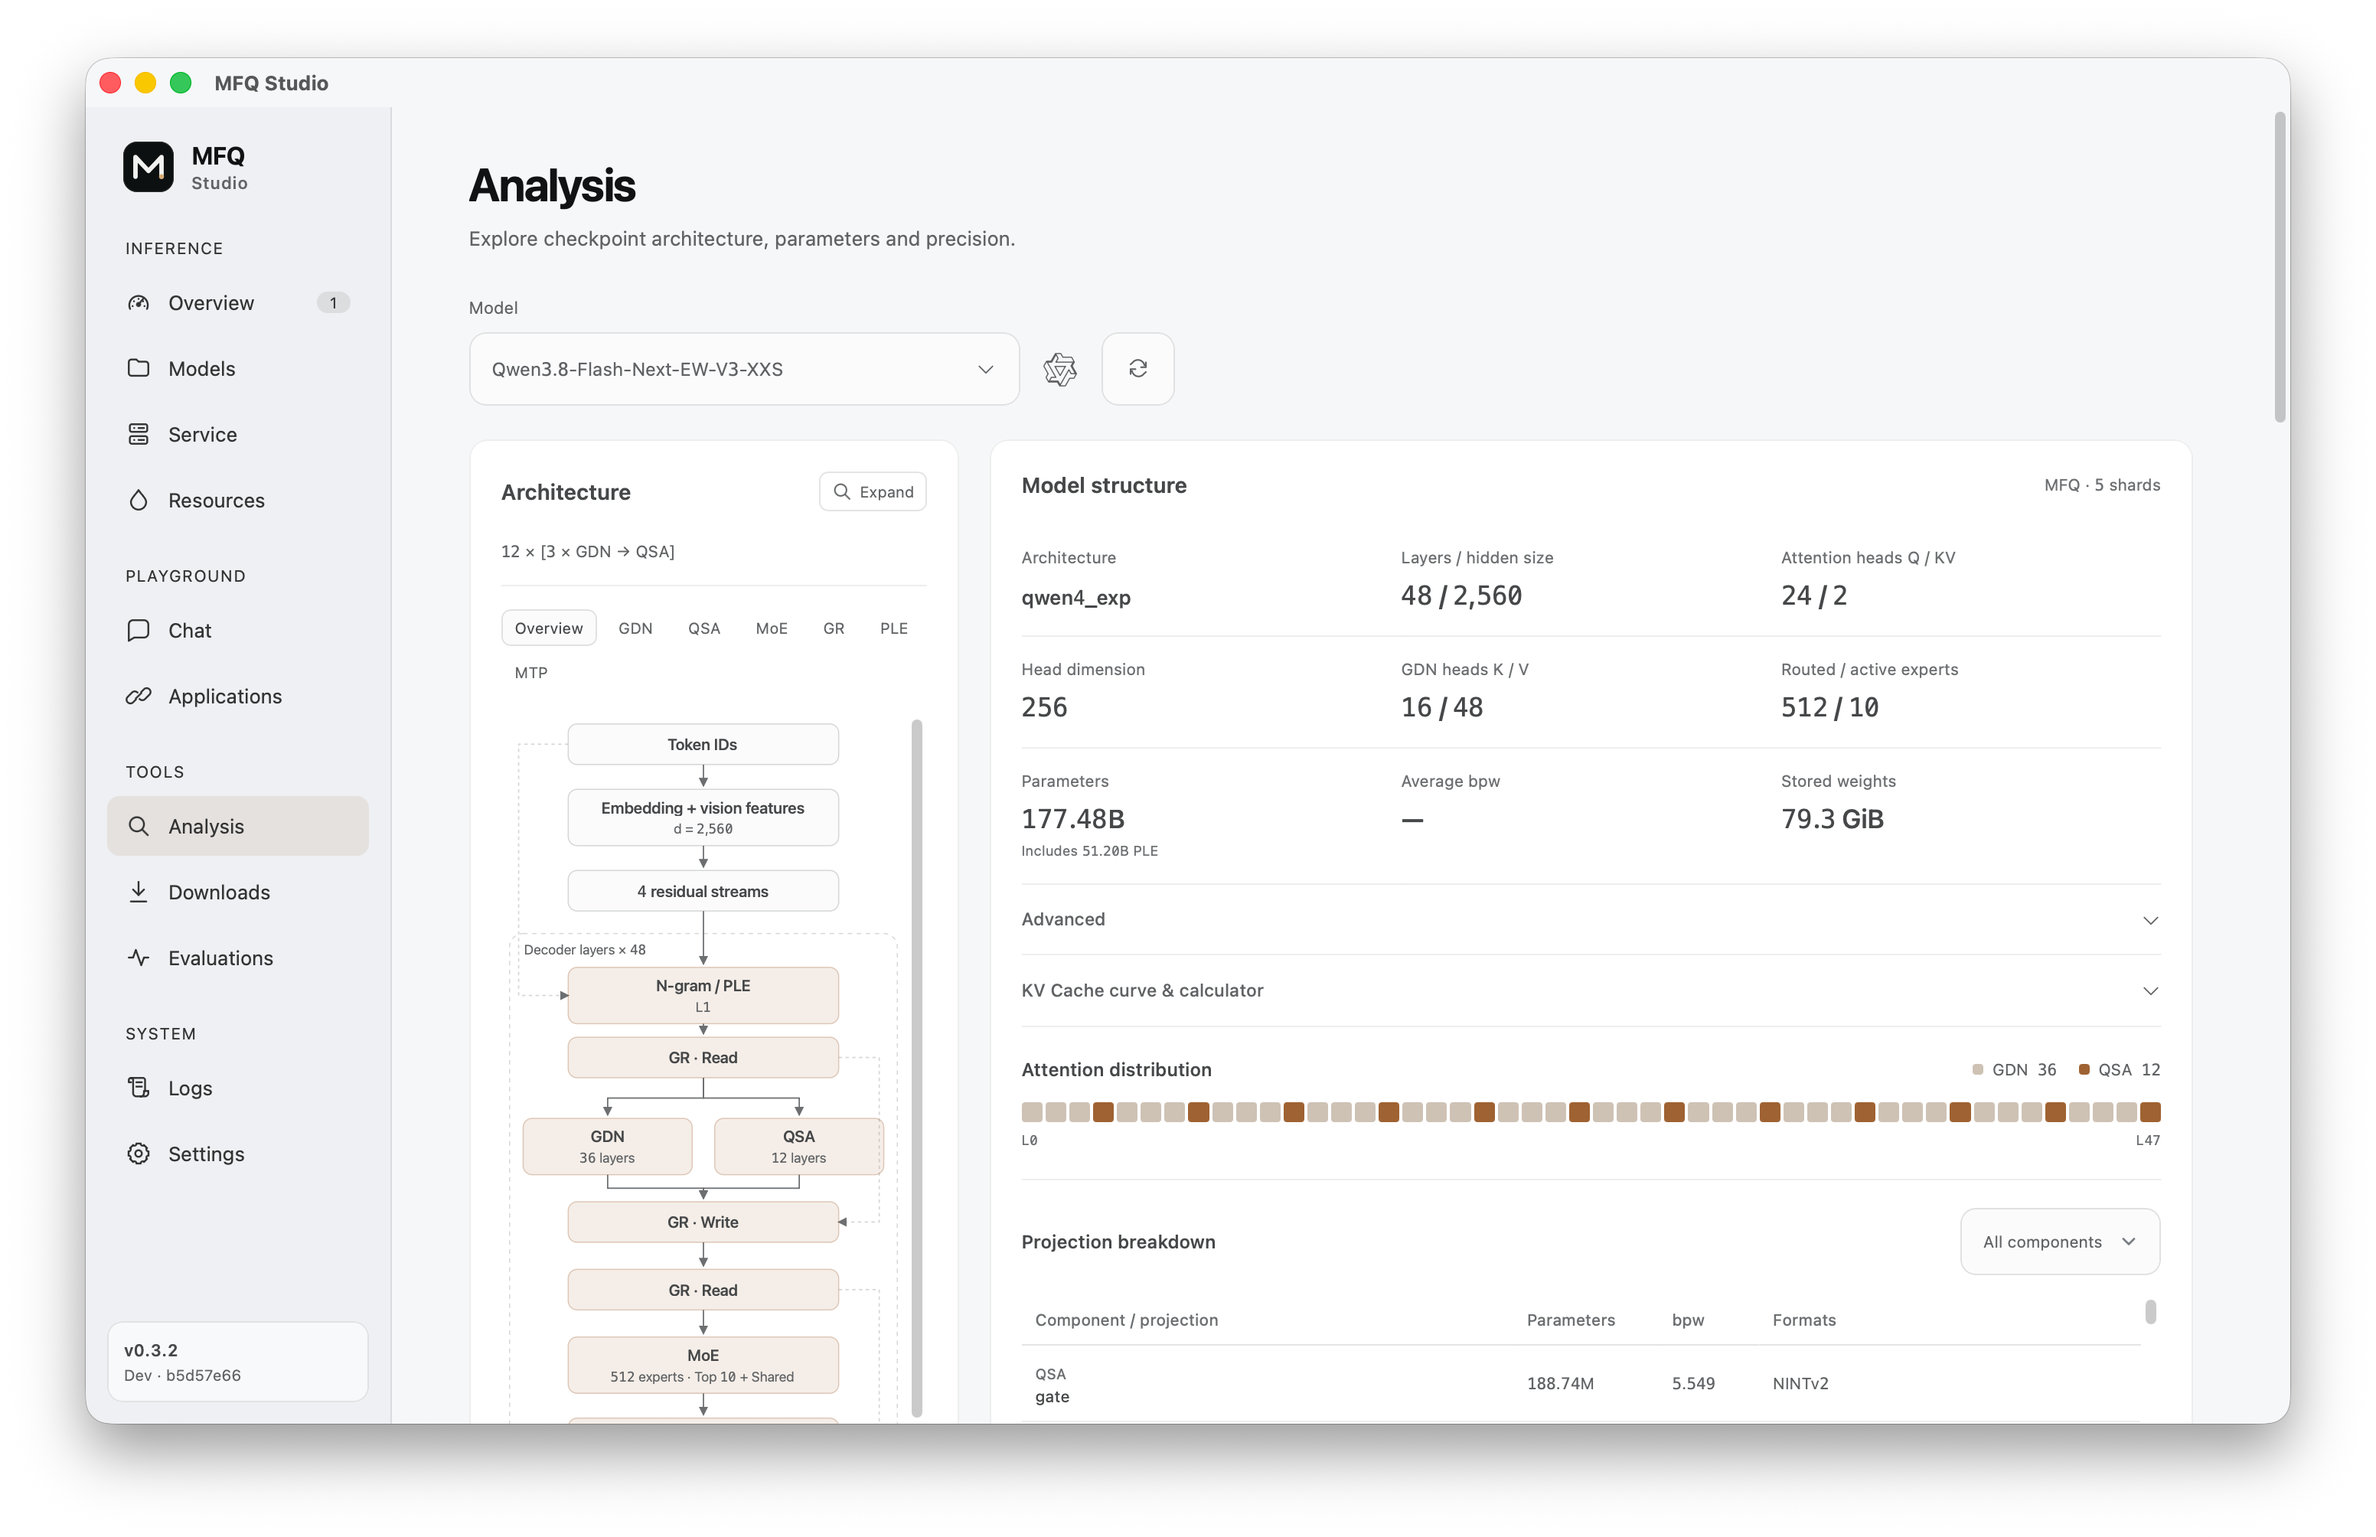
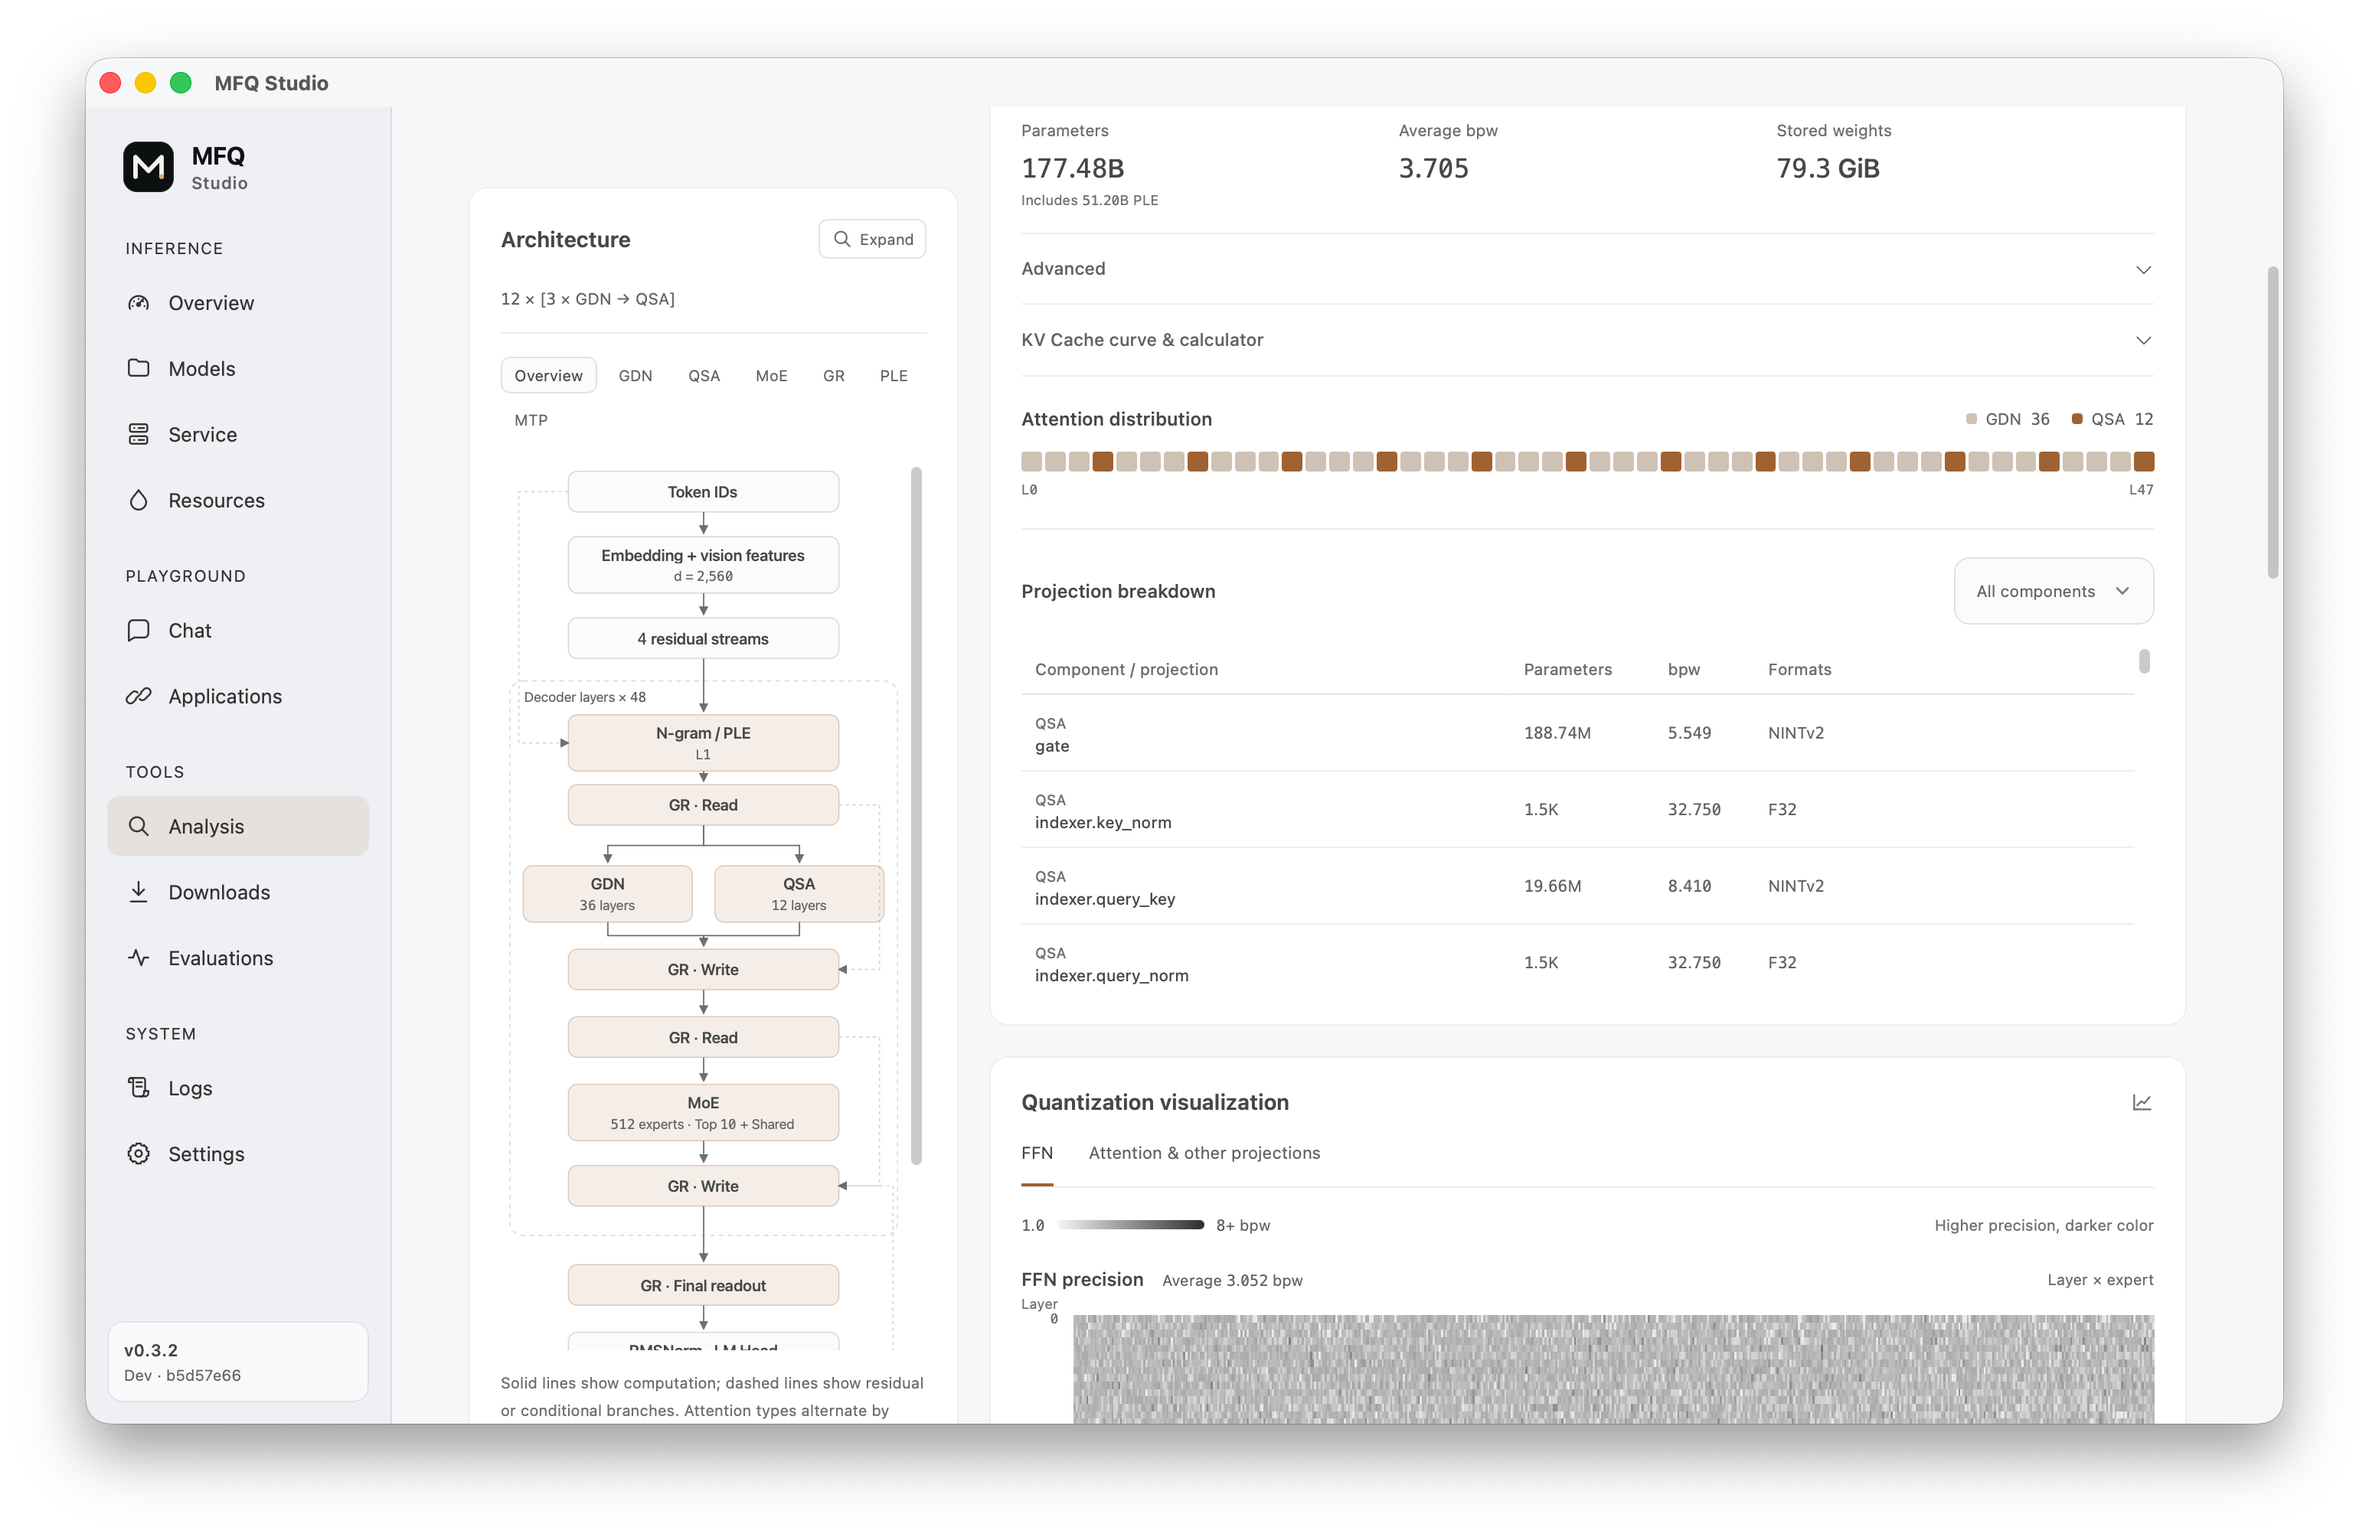
fix(analysis): scope model bpw and refresh Studio screenshots

diff --git a/tests/test_checkpoint_analysis.py b/tests/test_checkpoint_analysis.py
@@ -2,6 +2,8 @@ from __future__ import annotations
 
 import asyncio
 import math
+import struct
+from dataclasses import replace
 from pathlib import Path
 
 import httpx
@@ -114,6 +116,99 @@ def test_fused_gate_up_does_not_assume_identical_row_precision(tmp_path: Path) -
     assert result.advanced.hc_lowrank is None
     assert result.advanced.active_blocks is None
     assert result.advanced.expert_hidden_size == 2
+
+
+@pytest.mark.parametrize("source_names", [False, True])
+@pytest.mark.parametrize("dtype", [np.float16, np.float32])
+def test_full_model_bpw_excludes_predictor_and_vision_only(tmp_path: Path, source_names: bool, dtype) -> None:
+    import json
+    path = tmp_path / "model.mfq"
+    predictor = "mtp.fc_hidden.weight" if source_names else "predictor.fusion.hidden.weight"
+    vision = "model.visual.patch_embed.proj.weight" if source_names else "vision.patch_embedding.weight"
+    save(path, FileHeader(model_arch="test"), {
+        MODEL_CONFIG_ASSET: json.dumps({"model_type": "qwen4_exp", "text_config": {
+            "model_type": "qwen4_exp_text", "num_hidden_layers": 1, "mtp_num_hidden_layers": 1}}).encode(),
+        "model.block.0.attention.query.weight": nint([4, 4], [4, 4]),
+        "model.embedding.weight": np.ones((8, 16), dtype=np.float16),
+        "model.output.weight": np.ones((8, 16), dtype=np.float16),
+        "model.block.0.position_embedding.ngram.shard.0.weight": np.ones((8, 16), dtype=np.float16),
+        predictor: np.ones((32, 16), dtype=dtype),
+        vision: np.ones((32, 16), dtype=dtype),
+    })
+    result = analyze_checkpoint(ModelCatalog._inspect(tmp_path, path))
+    main = [item for item in result.tensors if item.category not in {"predictor", "vision"}]
+    assert {item.category for item in main} == {"attention", "embedding", "lm_head", "ple"}
+    assert len(main) == 4
+    assert result.average_bpw == pytest.approx(8 * sum(item.stored_bytes for item in main) / sum(item.parameters for item in main))
+    assert result.average_bpw != pytest.approx(8 * result.stored_bytes / result.parameters)
+    assert result.parameters == sum(item.parameters for item in result.tensors)
+    assert result.stored_bytes == sum(item.stored_bytes for item in result.tensors)
+    assert {item.category for item in result.projections} >= {"predictor", "vision"}
+    assert all(item.average_bpw is not None for item in result.projections)
+    assert not result.warnings
+
+
+@pytest.mark.parametrize("name,excluded", [
+    ("predictor.block.0.mlp.experts.down.weight", True),
+    ("vision.block.0.attention.query.weight", True),
+    ("model.block.0.attention.key.weight", False),
+])
+def test_bpw_completeness_check_uses_only_main_weights(tmp_path: Path, name: str, excluded: bool) -> None:
+    path = tmp_path / "model.mfq"
+    value = replace(nint([4] * 4, [4] * 4), axis=2)
+    save(path, FileHeader(model_arch="test"), {
+        "model.block.0.attention.query.weight": np.ones((4, 16), dtype=np.float16),
+        name: value,
+    })
+    result = analyze_checkpoint(ModelCatalog._inspect(tmp_path, path))
+    main = next(item for item in result.tensors if item.name == "model.block.0.attention.query.weight")
+    if excluded:
+        assert result.average_bpw == pytest.approx(8 * main.stored_bytes / main.parameters)
+    else:
+        assert result.average_bpw is None
+    assert any(name in warning for warning in result.warnings)
+    assert next(item for item in result.tensors if item.name == name).bpw is None
+
+
+def test_auxiliary_only_checkpoint_has_no_full_model_bpw(tmp_path: Path) -> None:
+    path = tmp_path / "auxiliary.mfq"
+    save(path, FileHeader(model_arch="test"), {
+        "predictor.fusion.weight": np.ones((4, 16), dtype=np.float16),
+        "vision.patch_embedding.weight": np.ones((4, 16), dtype=np.float16),
+    })
+    result = analyze_checkpoint(ModelCatalog._inspect(tmp_path, path))
+    assert result.average_bpw is None
+    assert result.parameters > 0
+    assert all(item.average_bpw is not None for item in result.projections)
+
+
+def test_hf_full_model_bpw_excludes_mapped_predictor_and_vision(tmp_path: Path) -> None:
+    import json
+
+    config = {"model_type": "qwen4_exp", "text_config": {
+        "model_type": "qwen4_exp_text", "num_hidden_layers": 1, "mtp_num_hidden_layers": 1}}
+    (tmp_path / "config.json").write_text(json.dumps(config), encoding="utf-8")
+    tensors = {
+        "model.language_model.embed_tokens.weight": np.ones((4, 16), dtype=np.float16),
+        "mtp.fc_hidden.weight": np.ones((32, 16), dtype=np.float32),
+        "model.visual.patch_embed.proj.weight": np.ones((32, 16), dtype=np.float32),
+    }
+    header, payloads, offset = {}, [], 0
+    for name, tensor in tensors.items():
+        payload = tensor.tobytes()
+        header[name] = {"dtype": "F16" if tensor.dtype == np.float16 else "F32",
+            "shape": list(tensor.shape), "data_offsets": [offset, offset + len(payload)]}
+        payloads.append(payload)
+        offset += len(payload)
+    encoded = json.dumps(header).encode()
+    encoded += b" " * (-len(encoded) % 8)
+    (tmp_path / "model.safetensors").write_bytes(struct.pack("<Q", len(encoded)) + encoded + b"".join(payloads))
+    result = analyze_checkpoint(ModelCatalog._inspect(tmp_path, tmp_path))
+    assert result.average_bpw == 16
+    assert result.average_bpw != pytest.approx(8 * result.stored_bytes / result.parameters)
+    assert {item.category for item in result.tensors} == {"embedding", "predictor", "vision"}
+    assert {item.category: item.average_bpw for item in result.projections} == {
+        "embedding": 16, "predictor": 32, "vision": 32}
 
 
 def test_advanced_qwen_details_distinguish_activations_and_sparse_budget(tmp_path: Path) -> None:

diff --git a/mfq/server/services/checkpoint_analysis.py b/mfq/server/services/checkpoint_analysis.py
@@ -422,6 +422,9 @@ def analyze_checkpoint(artifact: DiscoveredModel) -> CheckpointAnalysis:
             average_bpw=8 * size / parameters if parameters and all(item.bpw is not None for item in items) else None,
             tensor_count=len(items), formats=sorted({cell.format for cell in cells}) if cells and category == "routed_experts" else sorted({item.format for item in items})))
     parameters, size = sum(item.parameters for item in tensors), sum(item.stored_bytes for item in tensors)
+    bpw_weights = [item for item in tensors if item.category not in {"predictor", "vision"}]
+    bpw_parameters = sum(item.parameters for item in bpw_weights)
+    bpw_size = sum(item.stored_bytes for item in bpw_weights)
     if not config:
         warnings.append("checkpoint has no model config; head counts and architecture details are unavailable")
     return CheckpointAnalysis(model_id=artifact.resource.id, name=artifact.resource.name,
@@ -432,7 +435,7 @@ def analyze_checkpoint(artifact: DiscoveredModel) -> CheckpointAnalysis:
         linear_key_heads=_integer(text, "linear_num_key_heads"), linear_value_heads=_integer(text, "linear_num_value_heads"),
         expert_count=max(_integer(text, "num_experts", "n_routed_experts") or 0, max((cell.expert + 1 for cell in experts), default=0)),
         experts_per_token=_integer(text, "num_experts_per_tok"), parameters=parameters, stored_bytes=size,
-        average_bpw=8 * size / parameters if parameters and all(item.bpw is not None for item in tensors) else None,
+        average_bpw=8 * bpw_size / bpw_parameters if bpw_parameters and all(item.bpw is not None for item in bpw_weights) else None,
         attention_distribution=dict(distribution), projections=sorted(projections, key=lambda item: (item.category, item.name)),
         layers=layers, experts=experts, tensors=tensors,
         advanced=_advanced(text, graph, tensors),
